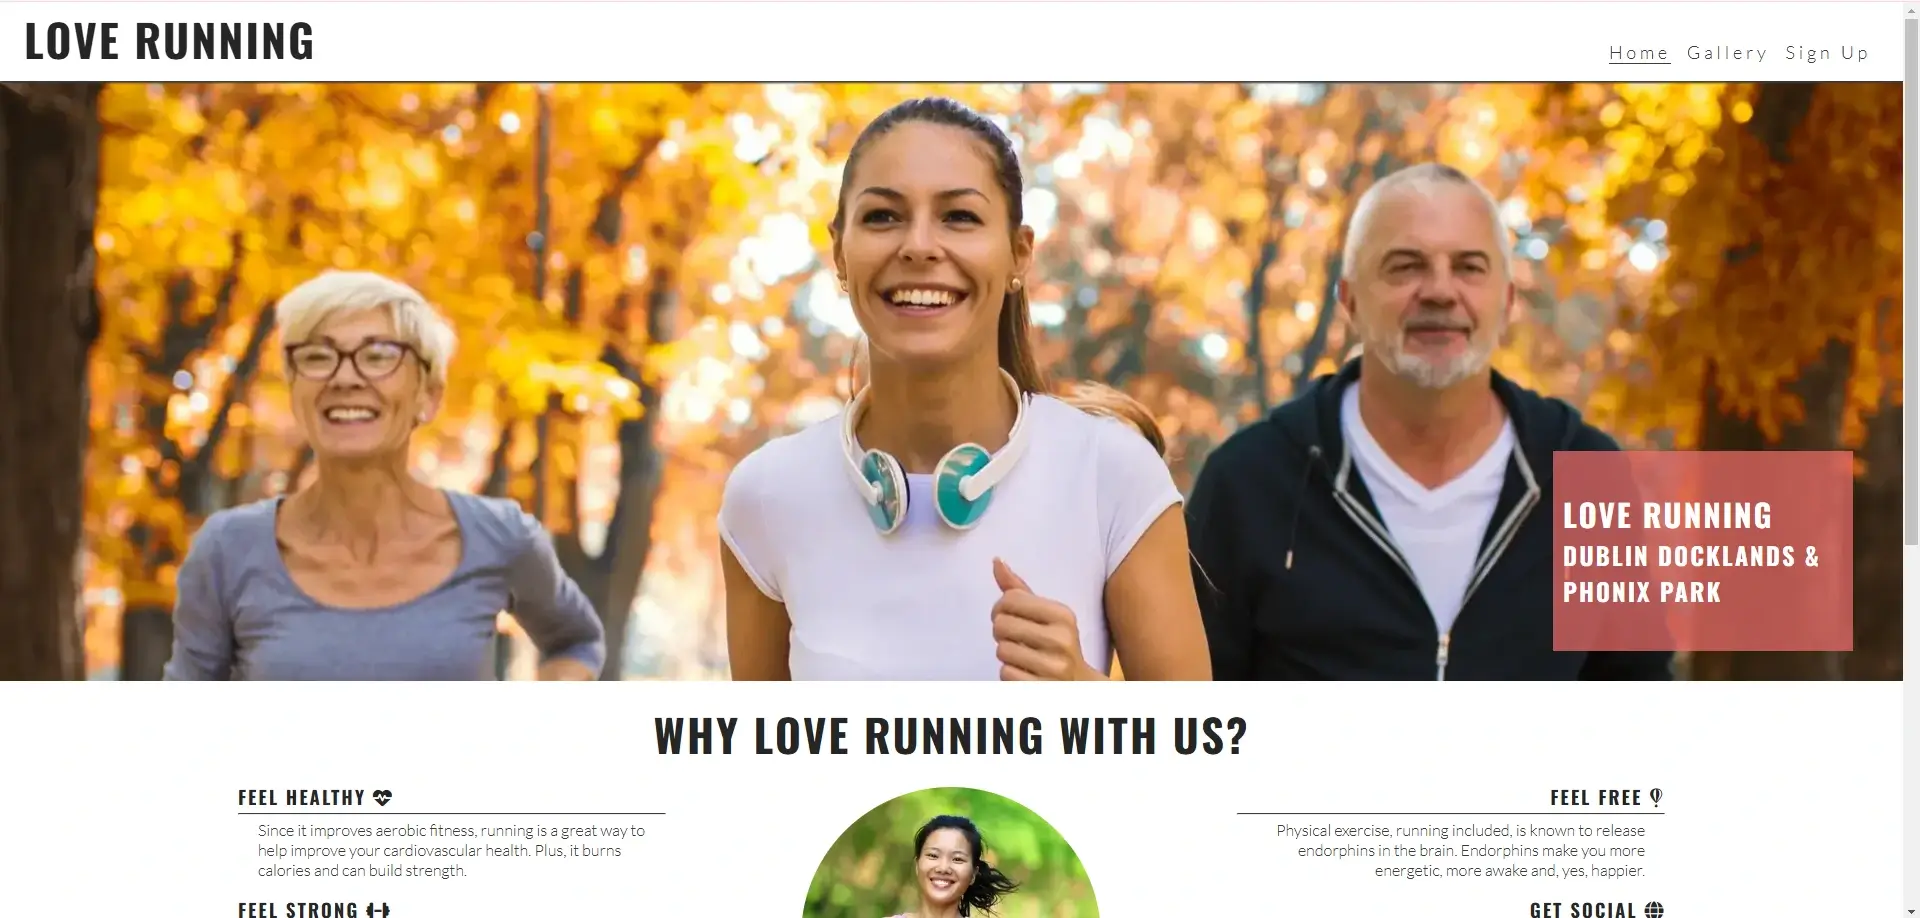
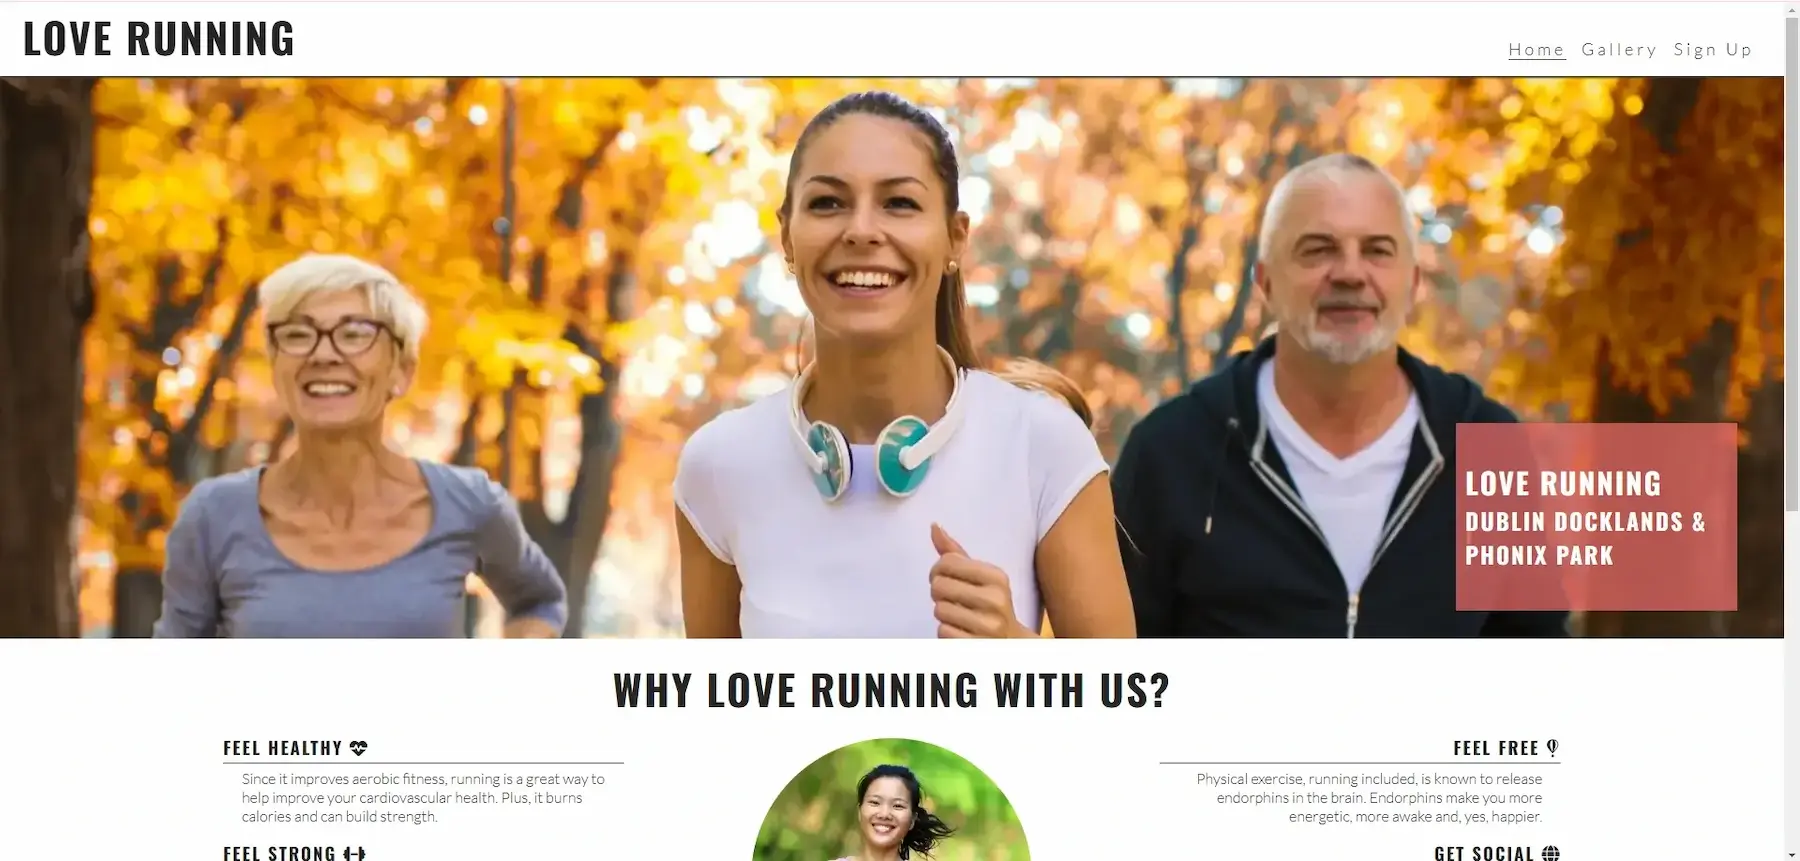
Reduce size of missed image files

diff --git a/assets/css/style.css b/assets/css/style.css
@@ -120,7 +120,7 @@ a:hover {
 header {
     /* Header Img */
     background: none;
-    background: url("../images/header-img.webp") no-repeat center/cover ;
+    background: url("../images/header-img-sm.webp") no-repeat center/cover;
     height: 100vh;
     width: 100vw;
     background-size: cover;
@@ -279,10 +279,11 @@ box-shadow: 2px 2px 5px rgba(0, 0, 0, 0.5);
 
 /* Media Queries */
 /* Small devices (landscape phones, 576px and up) */
-@media screen and (min-width: 576px) {
+@media screen and (max-width: 576px) {
     img {
         width: 70%;
     }    
+
 }
 
 /* Medium devices (tablets, 768px and up) */
